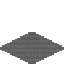
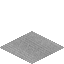
Trees and map

Changed region(s): [[0.0, 0.4688, 1.0, 1.0]]

diff --git a/Ritual/World.cpp b/Ritual/World.cpp
@@ -8,10 +8,11 @@ World::World(SDL_Renderer *renderer, string filename)
 	mCamX = 0.0f;
 	mCamY = 0.0f;
 
-	AddTile(renderer, 0, "assets/tile_concrete.png");
+	AddTile(renderer, 0, "assets/tile_gravel.png");
 	AddTile(renderer, 1, "assets/tile_grass.png");
 	AddTile(renderer, 2, "assets/tile_grass_flat.png");
-	AddTile(renderer, 3, "assets/tile_gravel.png");
+	AddTile(renderer, 3, "assets/tile_concrete.png");
+	AddTile(renderer, 4, "assets/tile_grass.png");
 
 	u32 w, h;
 	u8 *img;
